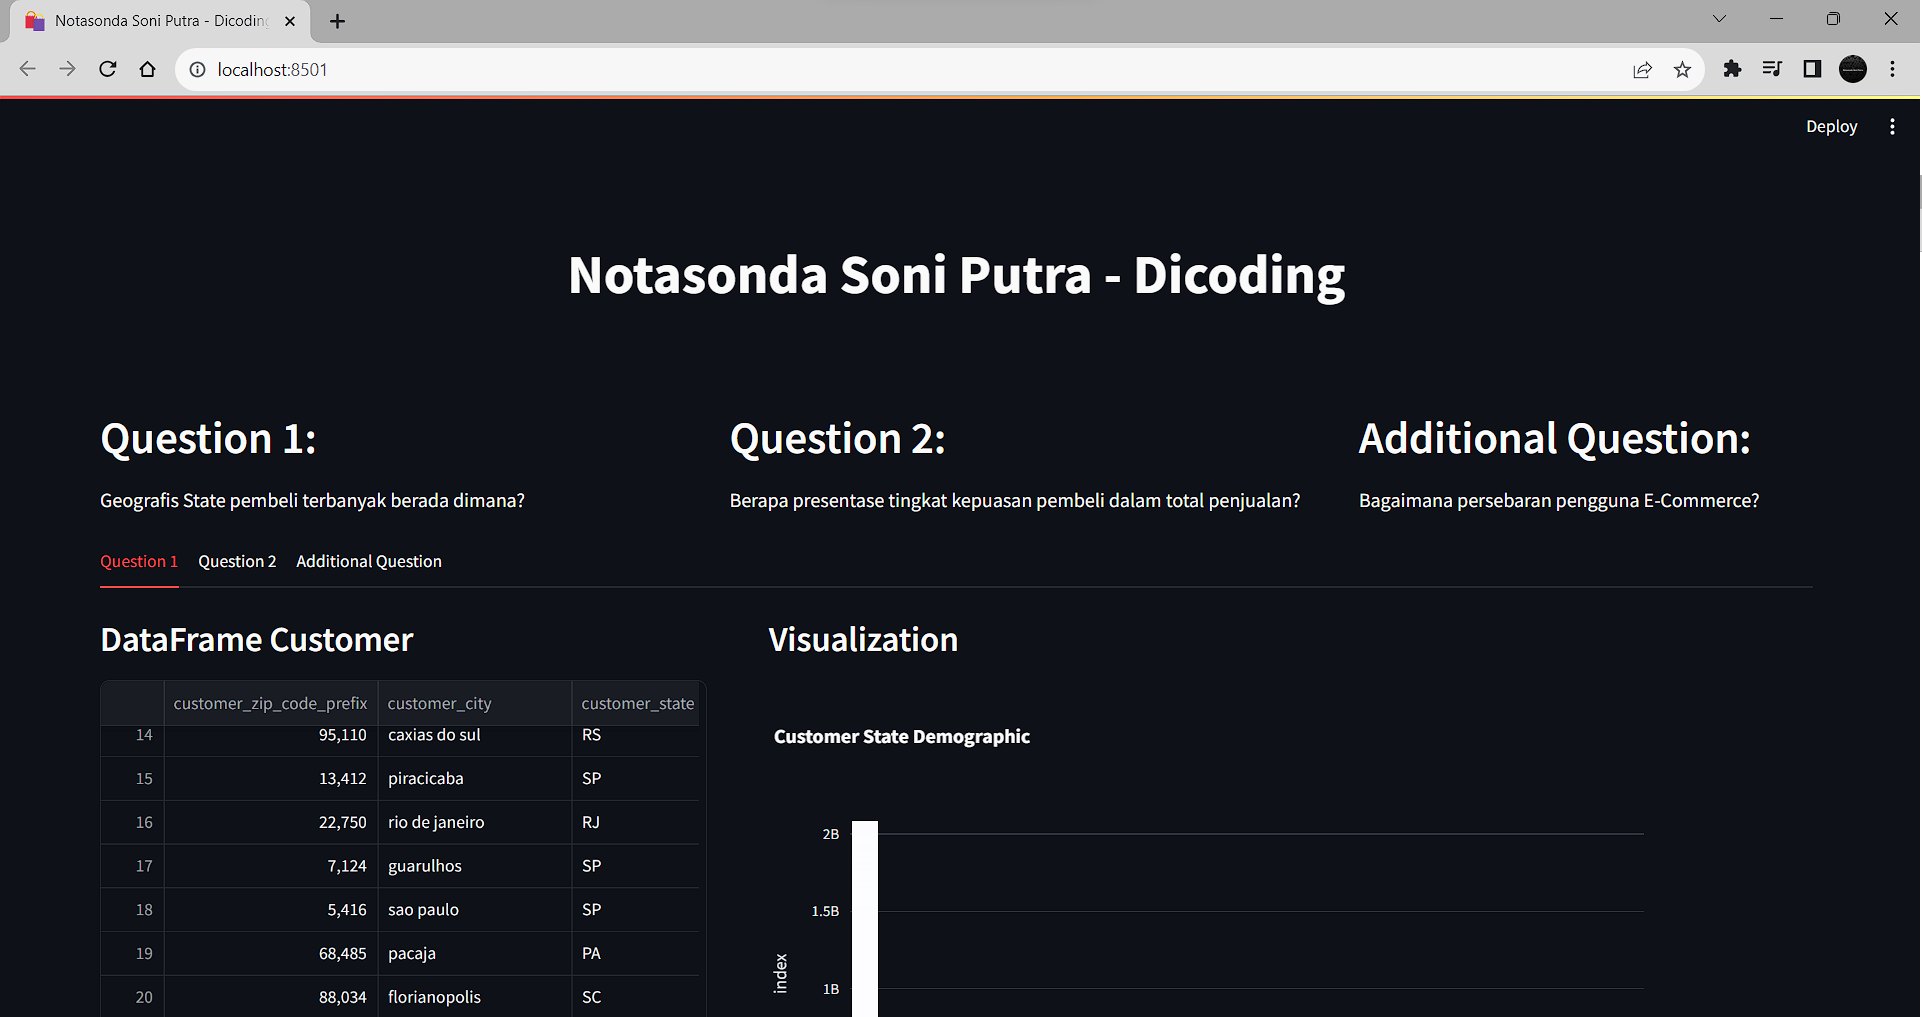
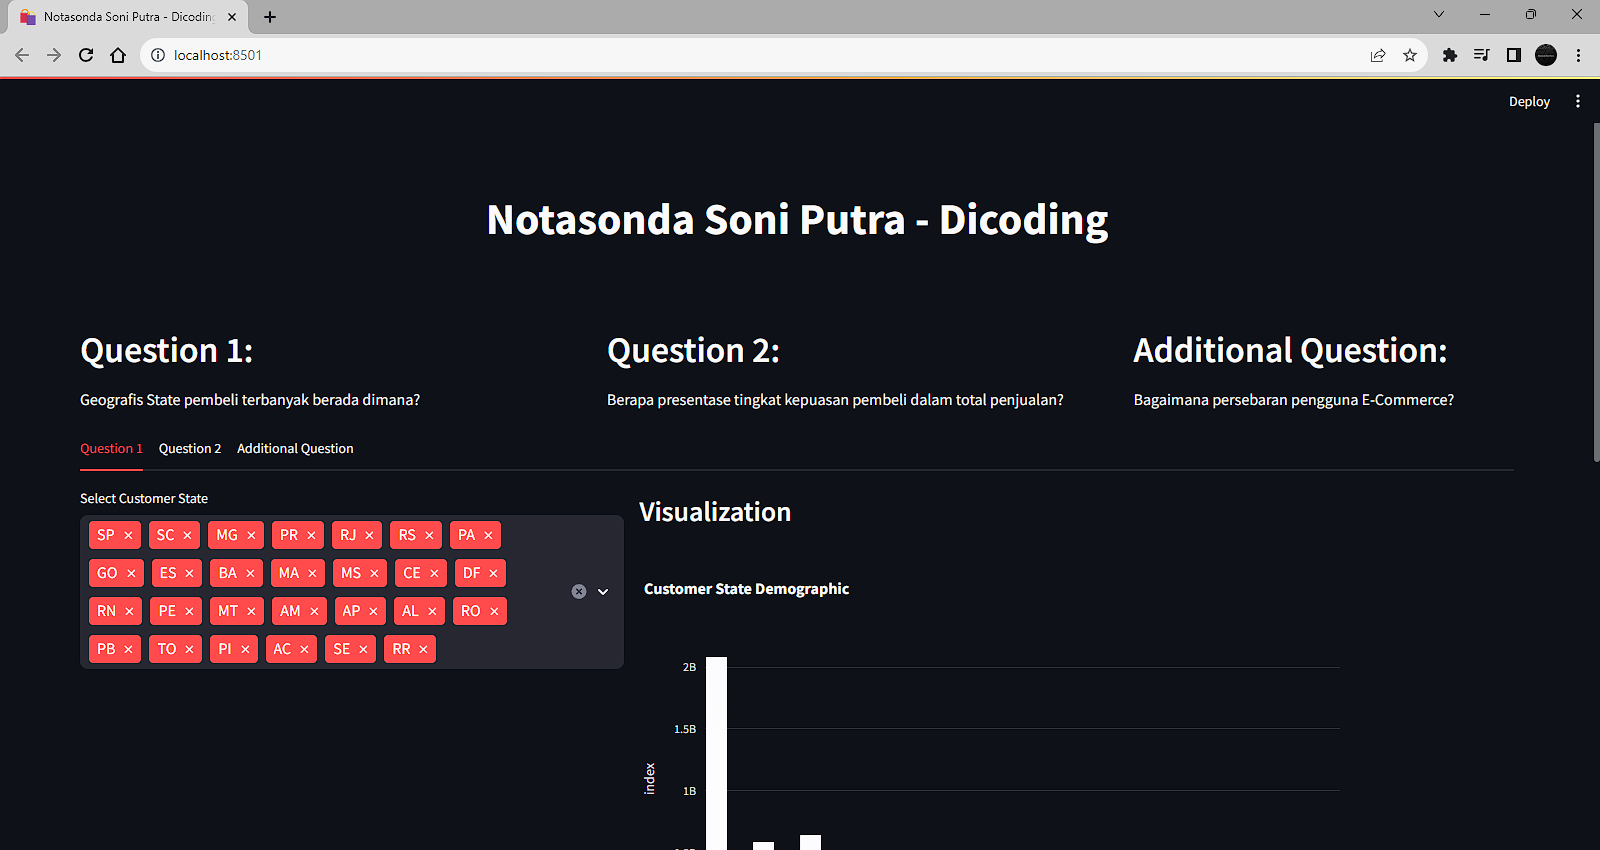
Proyek Analisis Data Soni

diff --git a/dashboard/app.py b/dashboard/app.py
@@ -38,19 +38,17 @@ with st.container():
     # Tab Customer (Question 1)
     with tab1:
         col1, col2 = st.columns((0.5, 0.8))
-        df_customer = pd.read_csv("Datasets\E_Commerce_Public_Dataset\customers_dataset.csv")
+        df_customer = pd.read_csv("customers_dataset.csv")
         df_customer_baru = df_customer.drop(['customer_id', 'customer_unique_id'], axis=1)
-        customer_state_list = st.multiselect(
+        with col1:
+            customer_state_list = st.multiselect(
             "Select Customer State",
             options = df_customer_baru["customer_state"].unique(),
             default = df_customer_baru["customer_state"].unique()
-        )
-        df_customer_state_sel = df_customer_baru.query(
-            "customer_state == @customer_state_list"
-        )
-        with col1:
-            st.subheader("DataFrame Customer")    
-            st.dataframe(data=df_customer_state_sel)
+            )
+            df_customer_state_sel = df_customer_baru.query(
+                "customer_state == @customer_state_list"
+            )
         with col2:
             st.subheader("Visualization")
             geog_state_vis = px.bar(
@@ -65,19 +63,17 @@ with st.container():
     # Tab Order (Question 2)
     with tab2:
         col1, col2 = st.columns((0.5, 0.8))
-        df_order = pd.read_csv("Datasets\E_Commerce_Public_Dataset\order_reviews_dataset.csv")
+        df_order = pd.read_csv("order_reviews_dataset.csv")
         df_order_baru = df_order.drop(['review_id', 'order_id', 'review_comment_title', 'review_comment_message'], axis=1)
-        review_score_list = st.multiselect(
-            "Select Customer State",
-            options = df_order_baru["review_score"].unique(),
-            default = df_order_baru["review_score"].unique()
-        )
-        df_review_score_sel = df_order_baru.query(
-            "review_score == @review_score_list"
-        )
         with col1:
-            st.subheader("DataFrame Customer")    
-            st.dataframe(data=df_review_score_sel)
+            review_score_list = st.multiselect(
+                "Select Review",
+                options = df_order_baru["review_score"].unique(),
+                default = df_order_baru["review_score"].unique()
+            )
+            df_review_score_sel = df_order_baru.query(
+                "review_score == @review_score_list"
+            )
         with col2:
             st.subheader("Visualization")
             # Total Review
@@ -104,8 +100,16 @@ with st.container():
     with tab3:
         # Insert Datasets
         st.markdown("""<h3 style='text-align:center;margin-bottom:50px'> Mapping Geolocation Dataset </h3>""", unsafe_allow_html=True)
-        df_geo = pd.read_csv("Datasets\E_Commerce_Public_Dataset\geolocation_dataset.csv")
-        st.map(df_geo,
+        df_geo = pd.read_csv("geolocation_dataset.csv")
+        map_list = st.multiselect(
+            "Select Geolocation Mapping",
+            options = df_geo["geolocation_state"].unique(),
+            default = df_geo["geolocation_state"].unique()
+        )
+        df_map_sel = df_geo.query(
+            "geolocation_state == @map_list"
+        )
+        st.map(df_map_sel,
             latitude= 'geolocation_lat',
             longitude='geolocation_lng',
             zoom = 2,

diff --git a/README.md b/README.md
@@ -1,1 +1,20 @@
 # Proyek_Analisis_Data
+
+```
+Tugas Submission Proyek Analisis Data
+Notasonda Soni Putra
+```
+
+# Setup Environtment
+
+```
+pip install folium
+pip install plotly-express
+pip install numpy pandas matplotlib jupyter streamlit babel
+```
+
+# Run streamlit app
+
+```
+streamlit run app.py
+```
